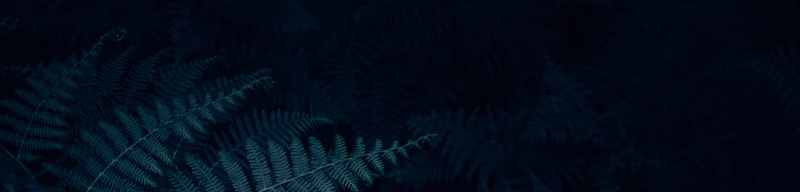
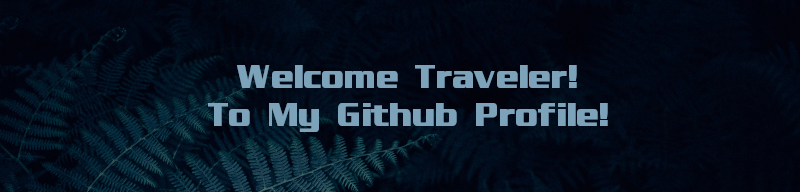
:sparkles: Further designed README

Changed region(s): [[0.25, 0.5312, 0.7812, 0.6875], [0.2812, 0.3438, 0.7188, 0.4688]]

diff --git a/README.md b/README.md
@@ -1,10 +1,9 @@
 <!-- [alt text]("./assets/leaves_banner.png") -->
 <img src="./assets/leaves_banner.png">
-<h3 align="center">👋 Welcome Traveler!</h3>
-<p align="center">My name is Brian Hayes and I'm a self-taught web
+<h3 align="center">My name is Brian Hayes!</h3>
+<p align="center">I'm a self-taught front-end web
 developer.</p>
-<p align="center">I have a love of
-Linux, Open Source, Bash Scripting, and JavaScript.</p>
+<p align="center">I have a love of JavaScript, Bash, and Linux.</p>
 
 ---
 
